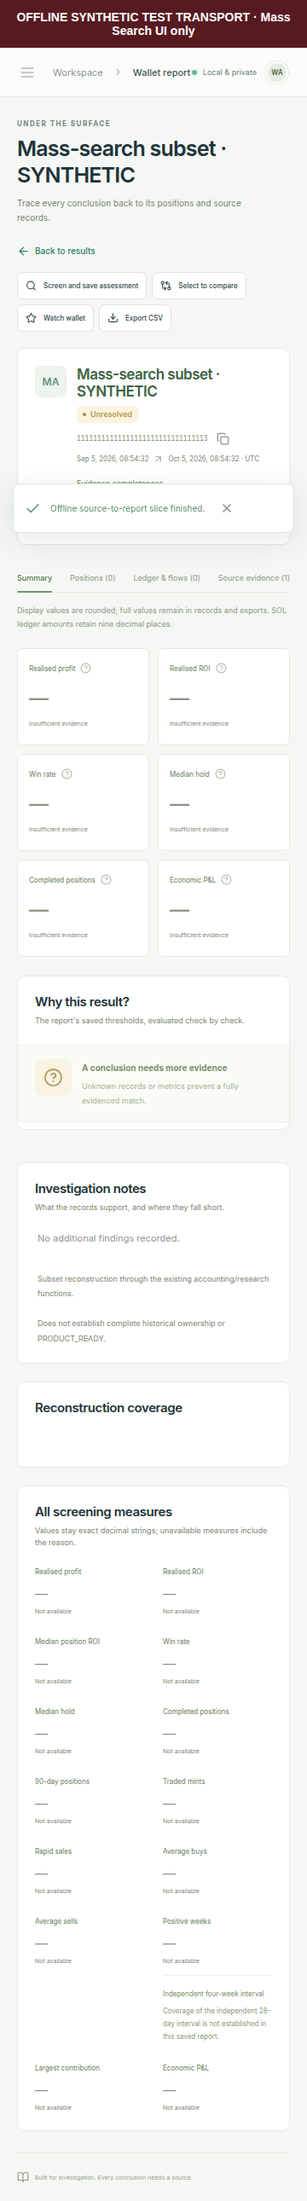
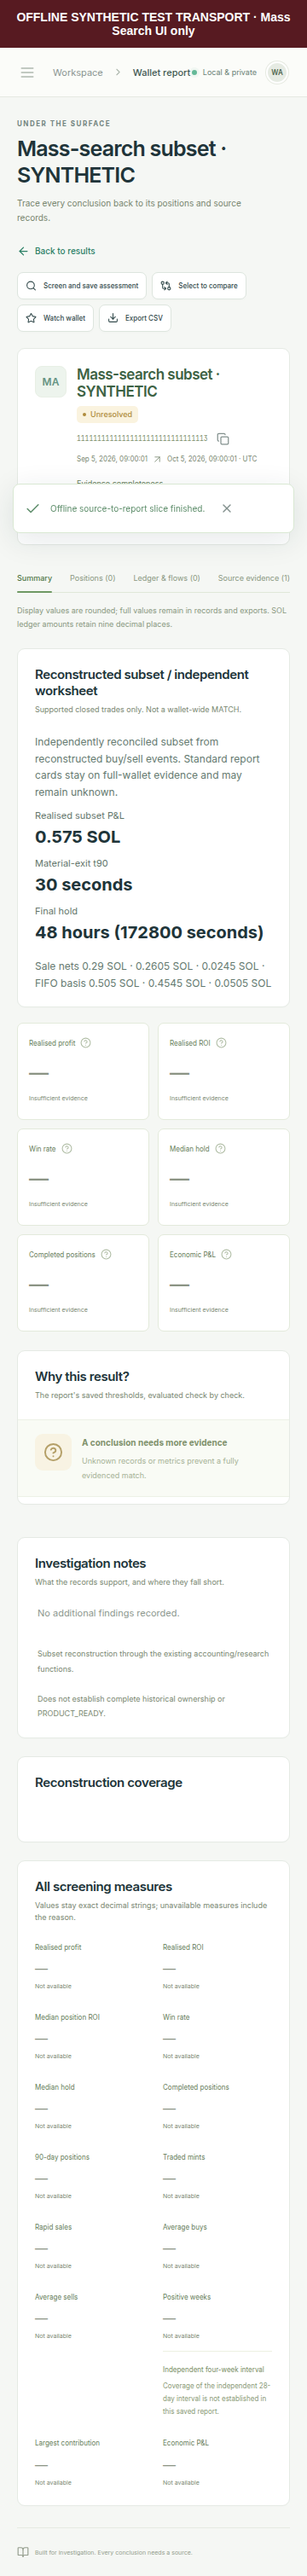
Record the opened-report worksheet in Search browser evidence.
Chromium shows 0.575 SOL, t90 30 s and 48 h hold on the reconstructed-subset panel; standard cards stay unknown.

Changed region(s): [[0.0, 0.0, 1.0, 0.9919], [0.1222, 0.9299, 0.3056, 0.9919]]

diff --git a/evidence/mass-wallet-funnel/DELIVERY.md b/evidence/mass-wallet-funnel/DELIVERY.md
@@ -7,7 +7,8 @@ A local Search funnel now runs offline from an authorised-or-fixture candidate s
 - Repository: `vermilion1992/solana-wallet-scanner`
 - Branch: `cursor/mass-wallet-funnel-v1-1055` (reversible; named for the cloud agent policy; equivalent intent to `codex/mass-wallet-funnel-v1`)
 - Base: `codex/screening-forward-research` `fa9f1307b2ee6b8e4d4288b5ee55b0d220404f69` (PR #1 left unmerged; PR #2 merged into this base at `ce3d0739` covering through `bbe9aa85`)
-- Tested application SHA: `baa9993d1b7206ce6ed3a55fd4a98dba5c7f5f71`
+- Tested application SHA: `0414f6d15060aa1295faaf8baf3854ec16aa0fc6`
+- Prior Search-UI SHA: `baa9993d1b7206ce6ed3a55fd4a98dba5c7f5f71`
 - Prior tested application SHA: `559b45c74182c29892521e18308b9154ea02ac0e`
 - Lock SHA-256: see `ee7c645a3a7b499bb150b1ac84b96ced/source_manifest.json`
 - Published SHA: same branch tip after this evidence commit
@@ -57,9 +58,9 @@ Synthetic vertical slice (1 address): reconstructed through `accounting.analyze`
 - Independent reconciliation: dust-tail buy 100 @ 1.01 SOL, sales 50/45/5 worked by hand to 0.505/0.4545/0.0505 basis and 0.575 total; helper and fixture match those numbers. Later-buy scaling-in moves t90; unknown transfer revokes material-exit.
 - Live HTTP, source removal/restoration on genuine pages, and full screening-forward validate profile: not run in this batch
 - Failed/blocked/not-run: G1/G2/G3/G5 live paths BLOCKED; G6 NOT_RUN; live-search receipt profile exit 2; full `tools/validate.py --profile screening-forward` not executed end-to-end here
-- Opened standard report cards still show insufficient-evidence dashes; subset 0.575 SOL / 48 h / t90 30 s is visible on the Search shortlist and in the JSON export/API worksheet
+- Opened report shows a labeled reconstructed-subset / independent worksheet: 0.575 SOL, t90 30 seconds, final hold 48 hours (172800 seconds). Standard full-wallet cards stay on insufficient-evidence dashes. Policy remains UNRESOLVED / not MATCH. Evidence `ui-offline-browser/03-opened-report-desktop.png`.
 
 ## Next action
-Offline: show the independent subset worksheet on the opened report panel without promoting it to a wallet-wide MATCH. Live remains blocked until one named `live-research-authorization-v1` (not the example file) confirms remaining quota and cycle dates: Birdeye `GET /trader/gainers-losers` (page 100, offset+limit ≤ 10000, ceiling 10 calls / 250 CU, purpose G2 1,000 unique candidates, $0 extra spend) and, separately, Helius `getTransactionsForAddress` for surviving wallets only (ceiling 20 calls / 600 credits, purpose G1/G3 targeted history, do not reset setup-pilot).
+Offline: after launcher restart, reopen the saved report and confirm the independent worksheet is unchanged. Live remains blocked until one named `live-research-authorization-v1` (not the example file) confirms remaining quota and cycle dates: Birdeye `GET /trader/gainers-losers` (page 100, offset+limit ≤ 10000, ceiling 10 calls / 250 CU, purpose G2 1,000 unique candidates, $0 extra spend) and, separately, Helius `getTransactionsForAddress` for surviving wallets only (ceiling 20 calls / 600 credits, purpose G1/G3 targeted history, do not reset setup-pilot).
 
 Independent outcomes: MASS_SEARCH_SOFTWARE = implemented offline. REAL_SEARCH_BENCHMARK, REAL_ANALYTICS_DEMONSTRATED, FORWARD_OPERATION_DEMONSTRATED, RESEARCH_OUTCOME = not demonstrated. Legacy PRODUCT_READY remains false.

diff --git a/ISSUES.md b/ISSUES.md
@@ -10,7 +10,7 @@ Continue from `codex/screening-forward-research` at
 | ID | Category / family | Status | Reproduction and preservation | Next evidence |
 | --- | --- | --- | --- | --- |
 | MS-SOFT | Implementation; staged funnel software | DONE (offline) | Source-to-report path, immutable stage decisions, Mass research v1 plan, 10k local capacity and receipt checker are added beside existing screening. Search UI fixture→freeze→triage→reconstruct→export/reopen is usable offline. Tested application `baa9993d1b7206ce6ed3a55fd4a98dba5c7f5f71`. | Live gates remain independently blocked |
-| MS-UI | Implementation; Search view 360px/desktop | VERIFIED_IN_SCOPE (synthetic browser) | Actual `run.sh` launcher + Chromium: empty, populated slice, export, open report, restart-reopen. 1440 and 360 viewports; scrollWidth==innerWidth; 0 external requests; 0 JS errors. Receipt `evidence/mass-wallet-funnel/ui-offline-browser/result.json`. Opened standard report cards still omit the subset worksheet values. | Surface independent 0.575 SOL / t90 / hold on the opened report without promoting a wallet-wide MATCH |
+| MS-UI | Implementation; Search view 360px/desktop | VERIFIED_IN_SCOPE (synthetic browser) | Actual `run.sh` launcher + Chromium: empty, populated slice, export, open report with independent worksheet, restart-reopen. 1440 and 360: scrollWidth==innerWidth; 0 external requests. Opened report shows 0.575 SOL / t90 30 s / 48 h (172800 s) labeled reconstructed subset; standard cards remain unknown; policy stays UNRESOLVED. Tested application `0414f6d15060aa1295faaf8baf3854ec16aa0fc6`. | After restart, reopen the report panel and confirm the worksheet is unchanged |
 | MS-LIVE | External permission; Birdeye/Helius live collection | BLOCKED | `config/live_authorization.example.json` is disabled. No remaining-quota confirmation exists. Setup-pilot ledger must not be reset. | One named authorization: provider, operation, purpose, call/credit ceiling, duration |
 | MS-G1 | Genuine vertical slice | BLOCKED | Offline synthetic slice can persist trades, subset P&L and median hold. That is not live acquisition. | Authorized page + targeted native buy/sell |
 | MS-G2 | Genuine 1,000-candidate search | BLOCKED | Fixture acquisition froze 1,000 synthetic rows in 0.1508 s with 0 provider calls. G2 requires real source requests. | Authorized Birdeye pages under a confirmed remaining quota |
